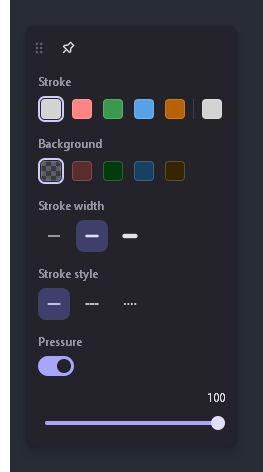
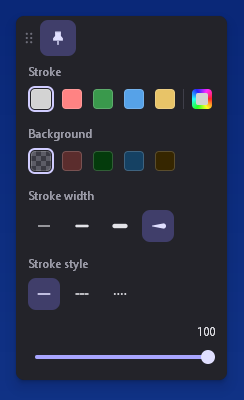
docs: Rewrite the README and refresh its screenshots

diff --git a/src/ui.c b/src/ui.c
@@ -1354,24 +1354,45 @@ bool ui_dump(const Ui *ui, const char *path)
             UnionRect(&box, box.left == 0x7FFFFFFF ? &rect : &box, &rect);
         }
     }
+    const char *backdropPath = getenv("PENPANE_DUMP_BG");
+    FILE *backdrop = backdropPath ? fopen(backdropPath, "rb") : NULL;
+    if (backdrop) {
+        SetRect(&box, 0, 0, 1920, 1200);
+    }
     int width = box.right - box.left;
     int height = box.bottom - box.top;
     if (width <= 0 || height <= 0) {
+        if (backdrop) {
+            fclose(backdrop);
+        }
         return false;
     }
     size_t stride = ((size_t)width * 3 + 3) & ~(size_t)3;
     unsigned char *data = malloc(stride * (size_t)height);
     if (!data) {
+        if (backdrop) {
+            fclose(backdrop);
+        }
         return false;
     }
     for (int y = 0; y < height; y++) {
         for (int x = 0; x < width; x++) {
             unsigned char *out = data + (size_t)(height - 1 - y) * stride + (size_t)x * 3;
+            unsigned char bgra[4];
+            if (backdrop && fread(bgra, 1, 4, backdrop) == 4) {
+                out[0] = bgra[0];
+                out[1] = bgra[1];
+                out[2] = bgra[2];
+                continue;
+            }
             float t = (float)y / (float)height;
             out[0] = (unsigned char)(120 + 40 * t);
             out[1] = (unsigned char)(40 + 30 * t);
             out[2] = (unsigned char)(10 + 20 * t);
         }
+    }
+    if (backdrop) {
+        fclose(backdrop);
     }
     for (int i = 0; i < PANEL_ISLAND_COUNT; i++) {
         const Island *island = &ui->islands[i];
@@ -1383,6 +1404,9 @@ bool ui_dump(const Ui *ui, const char *path)
                 uint32_t pixel = island->canvas.pixels[(size_t)y * (size_t)island->canvas.width + (size_t)x];
                 int dx = island->x - island->margin + x - box.left;
                 int dy = island->y - island->margin + y - box.top;
+                if (dx < 0 || dy < 0 || dx >= width || dy >= height) {
+                    continue;
+                }
                 unsigned alpha = pixel >> 24;
                 unsigned char *out = data + (size_t)(height - 1 - dy) * stride + (size_t)dx * 3;
                 out[0] = (unsigned char)((pixel & 0xFFu) + out[0] * (255u - alpha) / 255u);

diff --git a/README.md b/README.md
@@ -1,50 +1,24 @@
 # PenPane
 
-<a href="https://github.com/AlexDeveloperUwU#ai-usage"><img src="https://raw.githubusercontent.com/AlexDeveloperUwU/alexdeveloperuwu/main/assets/ai/generated.svg" alt="AI usage: Generated" width="360"/></a>
-
-This project was fully generated with AI: I gave the orders and prompts, and I reviewed the result.
-
-PenPane is a small native screen-annotation overlay for Windows 10 and 11. It draws over whatever is on screen for presentations, demos and teaching, or turns into a dark whiteboard. It is built for pen tablets: the two buttons of the pen can control every action through global hotkeys, and the drawing feel follows Excalidraw.
+PenPane is a small native screen-annotation overlay for Windows 10 and 11. Draw over whatever is on screen for presentations, demos and teaching, or switch to a dark whiteboard. It is built for pen tablets: the buttons of the pen can run every action, and the drawing feel follows Excalidraw.
 
 It is one executable of about 150 KB, written in C11 against the Win32 API. There is no runtime, no installer and no UI toolkit, and when it is idle it uses no CPU.
 
-![A sample annotation: a highlighted region, an arrow, a circled item and hand-drawn strokes](docs/images/sample-drawing.png)
-
-## Features
-
-- **Tools:** selection (move, resize, delete), rectangle, ellipse, diamond, arrow (one head or two), line, pen, laser pointer, text and eraser. The starting tool is select, so nothing is drawn by accident. Stroke and background colors, three widths plus pressure, solid, dashed and dotted styles, opacity and unlimited undo and redo.
-- **Colors:** five presets, a color picker with a hex field, an optional pastel row and your own colors from the configuration file.
-- **Your toolbar:** reorder or hide tools in the settings window; the number keys follow the order.
-- **Laser pointer:** a fading trail; short or quick strokes fade tail first, like long ones.
-- **Hide, clear, settings:** an eye button hides the drawings without deleting them, the trash asks before clearing, and the gear at the end of the toolbar opens settings with reset buttons.
-- **Optional debug log:** a small plain-text log you switch on only when something misbehaves; it costs nothing while off.
-- **Desktop and whiteboard modes:** desktop draws on a transparent layer over live content; whiteboard is an opaque dark canvas. Each keeps its own drawing and history.
-- **Click-through:** with drawing off the annotations stay visible while mouse, touch and pen input reach the applications below.
-- **Pen button gestures:** bind any action to a key or mouse button as a single press, a double press or a long press. Learn mode lets you press the button you want to bind instead of typing its name.
-- **Pen pressure:** real pressure is used when the tablet reports it; otherwise stroke width follows speed, using the model measured from Excalidraw.
-- **Floating tools:** the toolbar, the properties panel and the undo and redo panel are separate windows that open on click, fold back into a handle when you leave them, and can be pinned open.
-- **Two monitors:** choose the screen you draw on and the screen that holds the tools. The tools are excluded from screen capture by default, so an audience watching a shared screen does not see them.
-- **Copy or save as PNG:** put the drawing on the clipboard or write it to a file, with transparency in desktop mode.
-- **Tiny footprint:** measured on Windows 11 with the real executable (see [docs/measurements.md](docs/measurements.md)):
-
-| Quantity | Value |
-|---|---|
-| Idle CPU, every state, over 60 s | 0 ms |
-| Working set, hidden or drawing off | 0.2 to 0.3 MB |
-| Working set while drawing on a 2560x1376 screen | about 16 MB (the drawing surface is 13.8 MB of it) |
-| Process start to first visible window | 47.5 ms median |
-| Pointer event, handler to present | 0.25 ms on average |
+![PenPane over a web page: a designer's notes drawn with the arrow, rectangle, ellipse, diamond, text and pen tools, with the toolbar, properties panel and history panel open](docs/images/overview.png)
 
 | | |
 |---|---|
-| ![Toolbar](docs/images/toolbar.png) | ![Properties panel](docs/images/properties-panel.png) |
+| ![Toolbar](docs/images/toolbar.png) | ![History panel](docs/images/history-panel.png) |
+| ![Properties panel](docs/images/properties-panel.png) | ![Settings](docs/images/settings-shortcuts.png) |
 
 ## Quick start
 
 1. Download `PenPane.exe` and `PenPane.exe.sha256` from the Releases page of the repository and check the file: `(Get-FileHash PenPane.exe).Hash` must match the contents of the checksum file.
-2. Run `PenPane.exe`. It lives in the notification area and shows a small toolbar handle. Put the program in a folder you can write to, because it keeps `PenPane.ini` next to the executable.
-3. Start it a second time, or click the toolbar handle and then its drawing button, to turn drawing on or off. Right-click the tray icon for modes, screens, remapping, copying as PNG, starting with Windows and quitting.
+2. Run `PenPane.exe`. It lives in the notification area and shows a small toolbar handle. Put it in a folder you can write to, because it keeps `PenPane.ini` next to the executable.
+3. Click the toolbar handle and then its drawing button to turn drawing on or off. Starting the program a second time does the same. Right-click the tray icon for modes, screens, remapping, copying as PNG, starting with Windows and quitting.
 4. `Ctrl+Alt+Shift+Esc` always quits. If another program owns that combination, PenPane falls back to `Ctrl+Alt+Shift+F12` and tells you.
+
+The program starts on the select tool, so nothing is drawn until you pick a drawing tool.
 
 | Tool | Key |
 |---|---|
@@ -62,23 +36,70 @@ It is one executable of about 150 KB, written in C11 against the Win32 API. Ther
 | Tool lock | Q |
 | Undo, redo | Ctrl+Z, Ctrl+Y or Ctrl+Shift+Z |
 
-More in [docs/usage.md](docs/usage.md).
+The tool lock keeps the current tool after each stroke. It is on by default; with it off, PenPane returns to the select tool after every stroke. More in [docs/usage.md](docs/usage.md).
+
+## Features
+
+**Drawing**
+- Selection (move, resize, delete), rectangle, ellipse, diamond, arrow (one head or two), line, pen, laser pointer, text and eraser.
+- Stroke and background colors, three widths plus pen pressure, solid, dashed and dotted styles, opacity, and unlimited undo and redo.
+- Colors: five presets, a color picker with a hex field, an optional pastel row, and your own colors from the configuration file.
+- Real pen pressure when the tablet reports it; otherwise the stroke width follows speed, using the model measured from Excalidraw.
+- The laser pointer leaves nothing behind: its trail fades tail first, however short the stroke.
+- Copy the drawing to the clipboard or save it as PNG, with transparency in desktop mode.
+
+**Modes**
+- Desktop mode draws on a transparent layer over live content. Whiteboard mode is an opaque dark canvas. Each keeps its own drawing and history.
+- With drawing off, the annotations stay visible while mouse, touch and pen input reach the applications below.
+- An eye button hides every drawing without deleting it. The trash button asks before clearing.
+
+**Tools and panels**
+- The toolbar, the properties panel and the undo and redo panel are separate windows. They open on click, fold back into a handle when you leave them, and can be pinned open.
+- Reorder or hide tools in the settings window; the number keys follow the order.
+- Choose the screen you draw on and the screen that holds the tools. The tools are excluded from screen capture by default, so an audience watching a shared screen does not see them.
+
+**Pen buttons**
+- Bind any action to a key or mouse button as a single, double or long press. Learn mode lets you press the button instead of typing its name.
+- Give each tool one extra shortcut in the settings window; the built-in keys stay.
+- A "Pen keys" helper types F13 to F16 into a tablet driver's key box, for drivers that cannot record them from the keyboard.
 
 ## Pen tablet setup
 
-PenPane does not talk to tablet drivers. It reacts to keys and mouse buttons, so any pen with buttons works:
+PenPane does not talk to tablet drivers. It reacts to keys and mouse buttons, so any pen with buttons works.
 
-1. In the driver of your tablet, map the two pen buttons to rarely used keys, for example `F13` and `F14`.
+1. In the driver of your tablet, map the pen buttons to rarely used keys, for example `F13` and `F14`. If the driver's key box cannot record them because your keyboard has no such keys, open **Settings → Pen keys**, turn drawing off, click the key box in the driver, then click **F13** in PenPane. PenPane types it there for you.
 2. Out of the box `F13` single press is undo, `F13` double press toggles drawing, `F14` single press selects the next tool, `F14` double press toggles desktop and whiteboard, and `F14` long press clears.
-3. To change a binding, choose Remap buttons in the tray menu, pick an action, and press the button the way you want to use it (single, double or long).
+3. To change a binding, use **Settings → Shortcuts** for the tools, or **Remap buttons** in the tray menu for any action. Pick the action and press the button the way you want to use it (single, double or long). If you cannot press the key, click one of the F13 to F18 buttons shown above the list.
 
-## When something does not work
-
-Turn on "Write a debug log" in the settings (or set `debug_log = true` in `PenPane.ini`). PenPane then writes `PenPane.log` next to the executable: start-up, configuration warnings, mode changes, window failures, display and lock events, tray notices and crashes, one short line each, never pointer movement. The file is capped at 1 MB (the older file is kept as `PenPane.log.1`). Attach it to a bug report; it contains no drawings and no text you typed.
+Details and the binding syntax are in [docs/configuration.md](docs/configuration.md).
 
 ## Configuration
 
-Settings live in a plain-text `PenPane.ini` next to the executable. Every key is optional and the file can be edited by hand and reloaded from the tray menu. See [docs/configuration.md](docs/configuration.md) for every key and the binding syntax.
+Settings live in a plain-text `PenPane.ini` next to the executable, and most of them are also in the settings window. Every key is optional. The file can be edited by hand and reloaded from the tray menu. See [docs/configuration.md](docs/configuration.md) for every key.
+
+## When something does not work
+
+Turn on **Write a debug log** in the settings (or set `debug_log = true` in `PenPane.ini`). PenPane then writes `PenPane.log` next to the executable: start-up, configuration warnings, mode changes, window failures, display and lock events, tray notices and crashes, one short line each, never pointer movement. The file is capped at 1 MB (the older file is kept as `PenPane.log.1`). It costs nothing while off. Attach it to a bug report; it contains no drawings and no text you typed.
+
+## Footprint
+
+Measured on Windows 11 with the real executable (see [docs/measurements.md](docs/measurements.md)):
+
+| Quantity | Value |
+|---|---|
+| Idle CPU, every state, over 60 s | 0 ms |
+| Working set, hidden or drawing off | 0.2 to 0.3 MB |
+| Working set while drawing on a 2560x1376 screen | about 16 MB (the drawing surface is 13.8 MB of it) |
+| Process start to first visible window | 47.5 ms median |
+| Pointer event, handler to present | 0.25 ms on average |
+
+## Limitations
+
+- Windows 10 version 2004 or later is needed for the capture exclusion of the tool panels (`WDA_EXCLUDEFROMCAPTURE`); on older versions they are visible in recordings.
+- Programs running as administrator, and the secure desktop used by UAC prompts, are protected from normal processes: pen button bindings and mouse triggers may not reach PenPane while such a window has the focus, and it may not be able to draw over them. Run PenPane elevated only if you need this. The same applies to the Pen keys helper when the tablet driver runs elevated.
+- Applications in exclusive full-screen mode (some games and video players) cover every overlay. Borderless full-screen windows work.
+- Real pen pressure and multi-monitor setups are not covered by the automated tests; they were not verified on real tablet hardware or on more than one display by the author.
+- The only export is a PNG, to the clipboard or to a file. There is no light theme, zoom, pan, image support or collaboration.
 
 ## Building from source
 
@@ -92,21 +113,11 @@ powershell -NoProfile -ExecutionPolicy Bypass -File scripts\test.ps1
 
 The result is `build\PenPane.exe`. Details, measuring and API documentation are in [docs/building.md](docs/building.md).
 
-## Limitations
+## Documentation and contributing
 
-- Windows 10 version 2004 or later is needed for the capture exclusion of the tool panels (`WDA_EXCLUDEFROMCAPTURE`); on older versions they are visible in recordings.
-- Programs running as administrator, and the secure desktop used by UAC prompts, are protected from normal processes: pen button bindings and mouse triggers may not reach PenPane while such a window has the focus, and it may not be able to draw over them. Run PenPane elevated only if you need this.
-- Applications in exclusive full-screen mode (some games and video players) cover every overlay. Borderless full-screen windows work.
-- Real pen pressure and multi-monitor setups are not covered by the automated tests; they were not verified on real tablet hardware or on more than one display by the author.
-- Only a PNG copy to the clipboard is offered as export. There is no light theme, zoom, pan, image support or collaboration.
-
-## Documentation
-
-Start with [docs/README.md](docs/README.md). Decisions are recorded one per file in [docs/notes](docs/notes/index.md).
-
-## Contributing and security
-
-Read [CONTRIBUTING.md](CONTRIBUTING.md) first. Please follow the [code of conduct](CODE_OF_CONDUCT.md). Report vulnerabilities as described in [SECURITY.md](SECURITY.md).
+- Start with [docs/README.md](docs/README.md). Decisions are recorded one per file in [docs/notes](docs/notes/index.md).
+- Read [CONTRIBUTING.md](CONTRIBUTING.md) first, and follow the [code of conduct](CODE_OF_CONDUCT.md).
+- Report vulnerabilities as described in [SECURITY.md](SECURITY.md).
 
 ## Acknowledgements
 
@@ -115,6 +126,12 @@ Read [CONTRIBUTING.md](CONTRIBUTING.md) first. Please follow the [code of conduc
 - [OpenBoard](https://openboard.ch) (GPL-3.0-only, by the Geneva education department) gave the idea of desktop mode: a transparent layer over the screen that you can draw on and interact with.
 
 PenPane reuses only the constants and formulas of Excalidraw and perfect-freehand, and only the idea from OpenBoard. It does not use their code or technology.
+
+## About this project
+
+<a href="https://github.com/AlexDeveloperUwU#ai-usage"><img src="https://raw.githubusercontent.com/AlexDeveloperUwU/alexdeveloperuwu/main/assets/ai/generated.svg" alt="AI usage: Generated" width="360"/></a>
+
+This project was fully generated with AI: I gave the orders and prompts, and I reviewed the result.
 
 ## License
 
